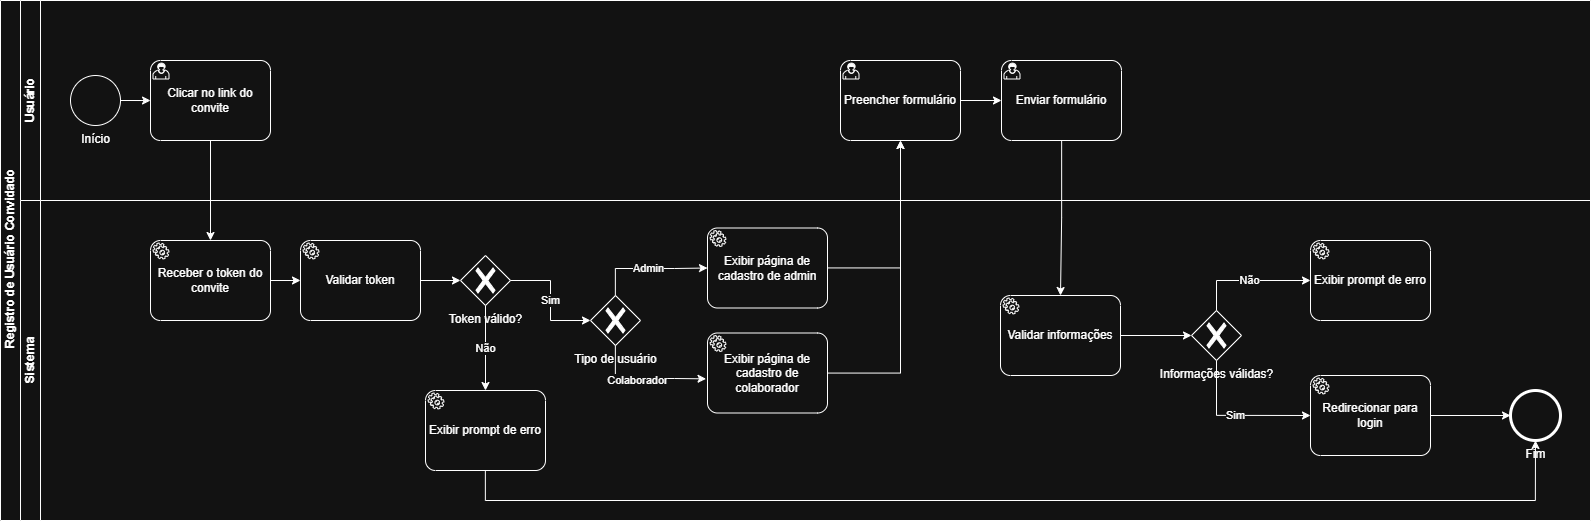
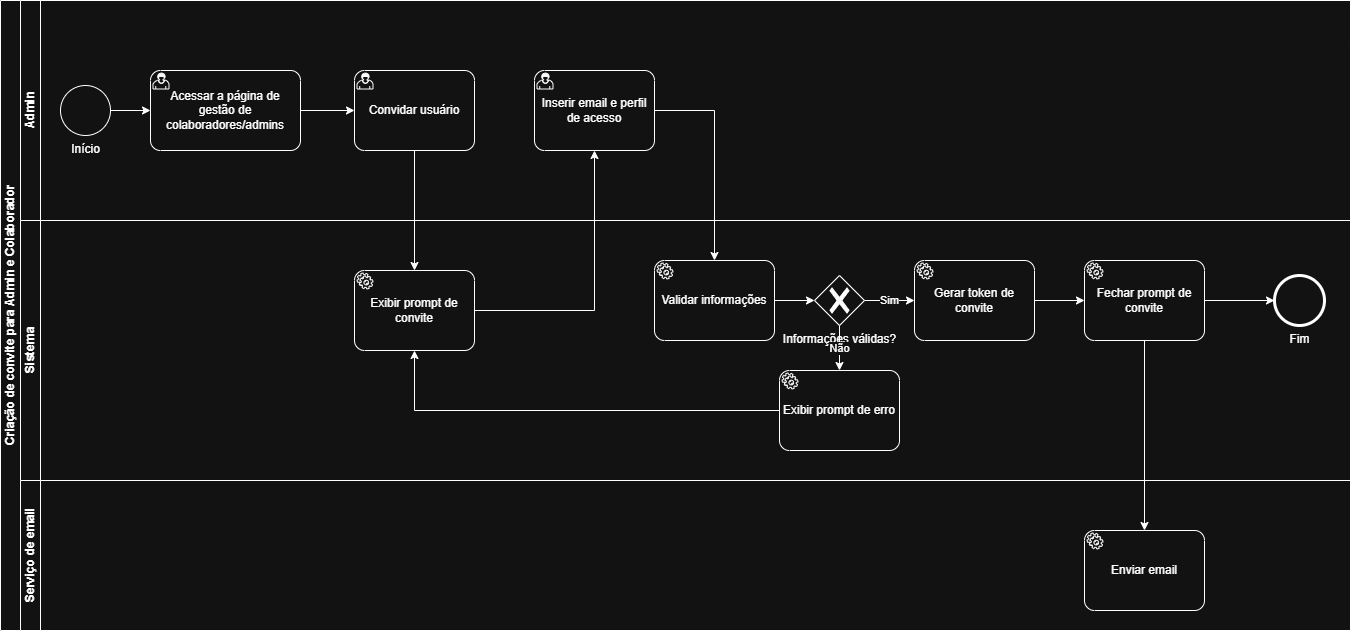
Atualiza o processo de gestão de usuário

diff --git a/docs/processo-1-gestao-de-usuario.md b/docs/processo-1-gestao-de-usuario.md
@@ -26,7 +26,7 @@ Em seguida, apresentam-se os modelos dos sub-processos do processo de Gestão de
 
 ### Subprocesso 1 – Autenticação e Registro de Cliente
 
-O processo de **Autenticação e Registro de Cliente** tem como objetivo permitir que um cliente acesse o sistema por meio do cadastro de uma nova conta ou pela autenticação com credenciais já existentes. O processo garante que apenas usuários com credenciais válidas obtenham acesso ao sistema. O processo se inicia com o usuário acessando a aplicação Web e apresentando a ele as opções disponíveis: criar uma nova conta ou digitar credenciais de acesso já existentes. Caso o usuário acione a opção de criação de uma nova conta, o sistema redireciona para o subprocesso de cadastro responsável pelo preenchimento e validação dos dados cadastrais do novo cliente. Ao ser concluído com sucesso, o sistema redireciona o usuário para a tela de autenticação. O detalhamento interno deste subprocesso está descrito no **Processo 2 – Registro de Cliente**. O usuário insere suas credenciais de acesso ao sistema (e-mail e senha). Esta atividade é inicializada tanto pelo fluxo de login direto quanto após a conclusão do cadastro. Depois há uma atividade executada pelo sistema em que as credenciais informadas são verificadas em relação à existência do usuário e à correspondência da senha. Não há interação direta do usuário nesta etapa. Caso a validação invalide a entrada, o sistema exibe uma mensagem de erro informando que as credenciais inseridas são inválidas. Então o usuário é redirecionado para tentar novamente. Caso a validação das credenciais seja bem-sucedida, uma sessão autenticada é criada para o usuário, concedendo a ele acesso ao sistema.
+O subprocesso de **Autenticação e Registro de Cliente** tem como objetivo permitir que um cliente acesse o sistema por meio do cadastro de uma nova conta ou pela autenticação com credenciais já existentes. O processo garante que apenas usuários com credenciais válidas obtenham acesso ao sistema. O processo se inicia com o usuário acessando a aplicação Web e apresentando a ele as opções disponíveis: criar uma nova conta ou digitar credenciais de acesso já existentes. Caso o usuário acione a opção de criação de uma nova conta, o sistema redireciona para o subprocesso de cadastro responsável pelo preenchimento e validação dos dados cadastrais do novo cliente. Ao ser concluído com sucesso, o sistema redireciona o usuário para a tela de autenticação. O detalhamento interno deste subprocesso está descrito no **Processo 2 – Registro de Cliente**. O usuário insere suas credenciais de acesso ao sistema (e-mail e senha). Esta atividade é inicializada tanto pelo fluxo de login direto quanto após a conclusão do cadastro. Depois há uma atividade executada pelo sistema em que as credenciais informadas são verificadas em relação à existência do usuário e à correspondência da senha. Não há interação direta do usuário nesta etapa. Caso a validação invalide a entrada, o sistema exibe uma mensagem de erro informando que as credenciais inseridas são inválidas. Então o usuário é redirecionado para tentar novamente. Caso a validação das credenciais seja bem-sucedida, uma sessão autenticada é criada para o usuário, concedendo a ele acesso ao sistema.
 
 ![Autenticação e Registro de Cliente](images/bpmn/gestao-de-usuario/bpmn-gestao-de-usuario-sp1.png "Modelo BPMN do Processo 1 - Subprocesso - Autenticação e Registro de Cliente.")
 
@@ -63,7 +63,7 @@ O processo de **Autenticação e Registro de Cliente** tem como objetivo permiti
 
 ### Subprocesso 2 – Registro de Cliente
 
-O processo de **Registro de Cliente** corresponde ao subprocesso de cadastro referenciado no Processo 1. Ele tem como objetivo coletar e validar as informações do novo cliente, efetuando seu login automaticamente ao final do cadastro bem-sucedido. O usuário preenche o formulário de cadastro com seus dados pessoais de acesso (esta é a única atividade de interação do usuário neste processo). Em seguida, há uma atividade executada pelo sistema em que os dados informados no formulário são verificados em relação ao cumprimento das restrições definidas (campos obrigatórios, e-mail único, correspondência de senha). Depois o sistema exibe uma mensagem de erro indicando quais campos precisam ser corrigidos. O usuário retorna ao formulário para efetuar os ajustes necessários. Após a validação bem-sucedida dos dados, o novo cadastro é registrado e uma sessão autenticada é criada automaticamente para o usuário encerrando o subprocesso.
+O subprocesso de **Registro de Cliente** corresponde ao subprocesso de cadastro referenciado no Processo 1. Ele tem como objetivo coletar e validar as informações do novo cliente, efetuando seu login automaticamente ao final do cadastro bem-sucedido. O usuário preenche o formulário de cadastro com seus dados pessoais de acesso (esta é a única atividade de interação do usuário neste processo). Em seguida, há uma atividade executada pelo sistema em que os dados informados no formulário são verificados em relação ao cumprimento das restrições definidas (campos obrigatórios, e-mail único, correspondência de senha). Depois o sistema exibe uma mensagem de erro indicando quais campos precisam ser corrigidos. O usuário retorna ao formulário para efetuar os ajustes necessários. Após a validação bem-sucedida dos dados, o novo cadastro é registrado e uma sessão autenticada é criada automaticamente para o usuário encerrando o subprocesso.
 
 ![Subprocesso - Registro de Cliente](images/bpmn/gestao-de-usuario/bpmn-gestao-de-usuario-sp2.png "Modelo BPMN do Processo 1 - Subprocesso - Registro de Cliente.")
 
@@ -104,19 +104,29 @@ O processo de **Registro de Cliente** corresponde ao subprocesso de cadastro ref
 
 ---
 
-### Subprocesso 3 – Criação de Convite para Admin e Colaborador
+### Subprocesso 3 – Gerenciamento de Colaboradores
 
-O processo de **Criação de Convite para Admin e Colaborador** tem como objetivo permitir que um administrador convide novos usuários para o sistema definindo seu e-mail e perfil de acesso. O sistema valida as informações, gera um token de convite e envia o convite por e-mail ao destinatário. O processo se inicia com o administrador acionando a funcionalidade de convite de novo usuário. Em seguida, o sistema exibe o prompt de convite para preenchimento das informações e exibe o formulário de convite para que o administrador insira o e-mail e o perfil de acesso do usuário convidado. O administrador preenche o e-mail do destinatário e define o perfil de acesso que será atribuído ao usuário convidado. Depois disso, há uma atividade do sistema em que e-mail e o perfil de acesso informados são verificados quanto ao formato e preenchimento obrigatório. Caso encontre algum erro, o sistema exibe uma mensagem de erro informando quais campos estão incorretos. Seguido disso, o administrador retorna ao formulário para corrigir os dados. Uma vez corrigido os dados ou inseridos eles corretamente, um token único de convite é gerado e associado ao e-mail e perfil de acesso definidos pelo administrador. Este token será utilizado para autenticar o convite no momento do registro do usuário. Em seguida, o sistema fecha o formulário de convite e aciona o serviço de e-mail para envio do convite ao destinatário. Ao final, o convite contendo o link com o token gerado é enviado ao endereço de e-mail informado pelo administrador.
+O subprocesso de **Gerenciamento de Colaboradores** tem como objetivo permitir que um administrador gerencie perfis de colaboradores e admins existentes e convide novos usuários para o sistema. O ato de gerenciamento permite que o administrador exclua um perfil ou realize a edição de algumas de suas informações. Ele se inicia quando o administrador acessa a página de gerenciamento de colaboradores e utiliza a listagem de usuários para realizar a ação desejada. A ação de exclusão é seguida de um prompt de confirmação. Já a ação de edição exibe a página de cadastro do usário, permitindo que o administrador realize a alteração de alguns dos dados existentes.
+Em paralelo, ao acessar a página de gerenciamento de colaboradores e admins, o administrador pode acionar o botão de convite de novo usuário. Um prompt de convite será exibido onde deve ser informado um e-mail do convidado e definido o seu perfil de acesso. O sistema valida as informações, gera um token de convite e envia o convite por e-mail ao destinatário. Após confirmar as informações, o sistema valida o e-mail informado com relação ao formato e preenchimento obritatório. Em caso de negativa das informações, o prompt um texto é exibido próximo ao campo de e-mail informando a necessidade de revisar as informações. Em caso positivo, um token único de convite é gerado e associado ao e-mail e perfil de acesso definidos pelo administrador. Este token será utilizado para autenticar o convite no momento do registro do usuário. Em seguida, o sistema fecha o formulário de convite e aciona o serviço de e-mail para envio do convite ao destinatário. Ao final, o convite contendo o link com o token gerado é enviado ao endereço de e-mail informado pelo administrador.
 
-![Criação de Convite para Admin e Colaborador](images/bpmn/gestao-de-usuario/bpmn-gestao-de-usuario-sp3.png "Modelo BPMN do Processo 1 - Criação de Convite para Admin e Colaborador")
+![Gestão de Colaboradores](images/bpmn/gestao-de-usuario/bpmn-gestao-de-usuario-sp3.png "Modelo BPMN do Processo 1 - Gestão de Colaboradores")
+
+![Criação de Convite para Colaborador](images/bpmn/gestao-de-usuario/bpmn-gestao-de-usuario-sp4.png "Modelo BPMN do Processo 1 - Criação de Convite para Colaborador")
+
+![Edição de Perfil de Colaborador](images/bpmn/gestao-de-usuario/bpmn-gestao-de-usuario-sp5.png "Modelo BPMN do Processo 1 - Edição de Perfil de Colaborador")
+
+![Exclusão de Perfil de Colaborador](images/bpmn/gestao-de-usuario/bpmn-gestao-de-usuario-sp6.png "Modelo BPMN do Processo 1 - Exclusão de Perfil de Colaborador")
+
 
 #### Detalhamento das atividades
 
-#### Convidar usuário
+#### Gestão de Colaboradores
 
-| **Comandos**     | **Destino**                         | **Tipo** |
-| ---------------- | ----------------------------------- | -------- |
-| Convidar | Atividade "Exibir prompt de convite" | padrão  |
+| **Comandos** | **Destino**                                   | **Tipo** |
+| ---          | ---                                           | -------- |
+| convidar     | Atividade "Exibir prompt de convite"          | padrão   |
+| editar       | Atividade "Edição de perfil de colaborador"   | padrão   |
+| excluir      | Atividade "Exclusão de perfil de colaborador" | padrão   |
 
 ---
 
@@ -153,19 +163,6 @@ O processo de **Criação de Convite para Admin e Colaborador** tem como objetiv
 | ----------------- | ------------------------- |
 | prompt fechado    | Atividade "Enviar e-mail" |
 
----
-
-#### Enviar e-mail
-
-| **Campo**           | **Tipo** | **Restrições**  | **Valor padrão**                        |
-| ------------------- | -------- | --------------- | --------------------------------------- |
-| destinatário        | Interno  | somente leitura | e-mail informado pelo administrador     |
-| link do convite     | Interno  | somente leitura | gerado com o token de convite           |
-
-| **Resultado**    | **Destino**     |
-| ---------------- | --------------- |
-| e-mail enviado   | Fim do processo |
-
 #### Wireframe
 
 ![Tela Registro de Usuário Convidado](images/wireframe/gestao-de-usuario/listagemColaboradoresServify.png)
@@ -178,9 +175,9 @@ O processo de **Criação de Convite para Admin e Colaborador** tem como objetiv
 
 ### Subprocesso 4 – Registro de Usuário Convidado
 
-O processo de **Registro de Usuário Convidado** tem como objetivo permitir que um usuário que recebeu um convite por e-mail conclua seu cadastro no sistema. O processo valida o token do convite, identifica o tipo de usuário (Admin ou Colaborador), exibe o formulário de cadastro correspondente e, após validação dos dados, realiza o login automaticamente. O processo se inicia com o usuário acessando o link de convite recebido por e-mail. Em seguida, o sistema recebe o token embutido no link e inicia o processo de validação. Há uma atividade executada pelo sistema em que o token presente no link é recebido e encaminhado para validação. Depois disso, o token recebido é verificado quanto à sua existência, validade e prazo de expiração. De acordo com a falta de correspondência, o sistema exibe uma mensagem informando que o link do convite é inválido ou expirou e então o processo é encerrado. Se a correspondência é positiva e o sistema identifica o perfil de acesso associado ao token do convite, ele redireciona para a página de cadastro correspondente. Logo em seguida, o sistema exibe o formulário de cadastro para o perfil de administrador ou o formulário de cadastro para o perfil de colaborador a depender do acesso. Então o usuário preenche o formulário de cadastro exibido conforme seu perfil de acesso. Esta atividade é compartilhada pelos fluxos de admin e colaborador. Depois há uma atividade do sistema em que os dados preenchidos no formulário são verificados quanto ao cumprimento das restrições definidas. Em caso de negativa, o sistema exibe uma mensagem de erro indicando quais campos precisam ser corrigidos e o usuário retorna ao formulário para efetuar os ajustes. Em caso de validação bem-sucedida dos dados, o novo cadastro é efetuado, o token de convite é invalidado e uma sessão autenticada é criada automaticamente para o usuário.
+O subprocesso de **Registro de Usuário Convidado** tem como objetivo permitir que um usuário que recebeu um convite por e-mail conclua seu cadastro no sistema. O subprocesso valida o token do convite, identifica o tipo de usuário (Admin ou Colaborador), exibe o formulário de cadastro correspondente e, após validação dos dados, realiza o login automaticamente. O processo se inicia com o usuário acessando o link de convite recebido por e-mail. Em seguida, o sistema recebe o token embutido no link e inicia o processo de validação. Há uma atividade executada pelo sistema em que o token presente no link é recebido e encaminhado para validação. Depois disso, o token recebido é verificado quanto à sua existência, validade e prazo de expiração. De acordo com a falta de correspondência, o sistema exibe uma mensagem informando que o link do convite é inválido ou expirou e então o processo é encerrado. Se a correspondência é positiva e o sistema identifica o perfil de acesso associado ao token do convite, ele redireciona para a página de cadastro correspondente. Logo em seguida, o sistema exibe o formulário de cadastro para o perfil de administrador ou o formulário de cadastro para o perfil de colaborador a depender do acesso. Então o usuário preenche o formulário de cadastro exibido conforme seu perfil de acesso. Esta atividade é compartilhada pelos fluxos de admin e colaborador. Depois há uma atividade do sistema em que os dados preenchidos no formulário são verificados quanto ao cumprimento das restrições definidas. Em caso de negativa, o sistema exibe uma mensagem de erro indicando quais campos precisam ser corrigidos e o usuário retorna ao formulário para efetuar os ajustes. Em caso de validação bem-sucedida dos dados, o novo cadastro é efetuado, o token de convite é invalidado e uma sessão autenticada é criada automaticamente para o usuário.
 
-![Registro de Usuário Convidado](images/bpmn/gestao-de-usuario/bpmn-gestao-de-usuario-sp4.png "Modelo BPMN do Processo 1 -Registro de Usuário Convidado.")
+![Registro de Usuário Convidado](images/bpmn/gestao-de-usuario/bpmn-gestao-de-usuario-sp7.png "Modelo BPMN do Processo 1 -Registro de Usuário Convidado.")
 
 #### Detalhamento das atividades
 
@@ -325,6 +322,35 @@ O processo de **Registro de Usuário Convidado** tem como objetivo permitir que 
  
 #### Wireframes
 
-![Tela Subprocesso - Registro de Cliente](images/wireframe/gestao-de-usuario/cadastroColaboradorServify.png)
-
 ![Tela Registro de Usuário Convidado](images/wireframe/gestao-de-usuario/listagemClientesServify.png)
+
+
+### Subprocesso 5 – Gerenciamento de Cliente
+
+O subprocesso de **Gerenciamento de Cliente** tem como objetivo permitir que um usuário administrador possa excluir a conta de um cliente. O subprocesso se inicia quando o administrador acesso a página de gerenciamento de clientes. Em seguida, mediante a solicitação de exclusão de um determinado cliente, um prompt de confirmação é exibido. Em caso de confirmação, a janela do prompt é fechada e o usuário é excluído do sistema. Em caso de cancelamento, o prompt a janela do prompt é fechada sem nenhuma consequência.
+
+![Exclusão de Cliente](images/bpmn/gestao-de-usuario/bpmn-gestao-de-usuario-sp8.png "Modelo BPMN do Processo 1 - Exclusão de Cliente.")
+
+![Exclusão de Usuário](images/bpmn/gestao-de-usuario/bpmn-gestao-de-usuario-sp6.png "Modelo BPMN do Processo 1 - Exclusão de Usuário.")
+
+#### Detalhamento das atividades
+
+#### Validar token
+
+| **Campo**        | **Tipo** | **Restrições**                             | **Valor padrão** |
+| ---------------- | -------- | ------------------------------------------ | ---------------- |
+| token do convite | Interno  | deve existir no sistema e estar dentro do prazo de validade | — |
+
+| **Comandos**    | **Destino**                        | **Tipo** |
+| --------------- | ---------------------------------- | -------- |
+| preencher       | Atividade "Preencher formulário"   | padrão   |
+| cancelar        | Fim do processo                    | cancelar |
+
+| **Resultado**   | **Destino**                               |
+| --------------- | ----------------------------------------- |
+| token válido    | Gateway "Tipo de usuário"                 |
+| token inválido  | Atividade "Exibir prompt de erro" (token) |
+
+#### Wireframes
+
+![Tela Subprocesso - Registro de Cliente](images/wireframe/gestao-de-usuario/cadastroColaboradorServify.png)
